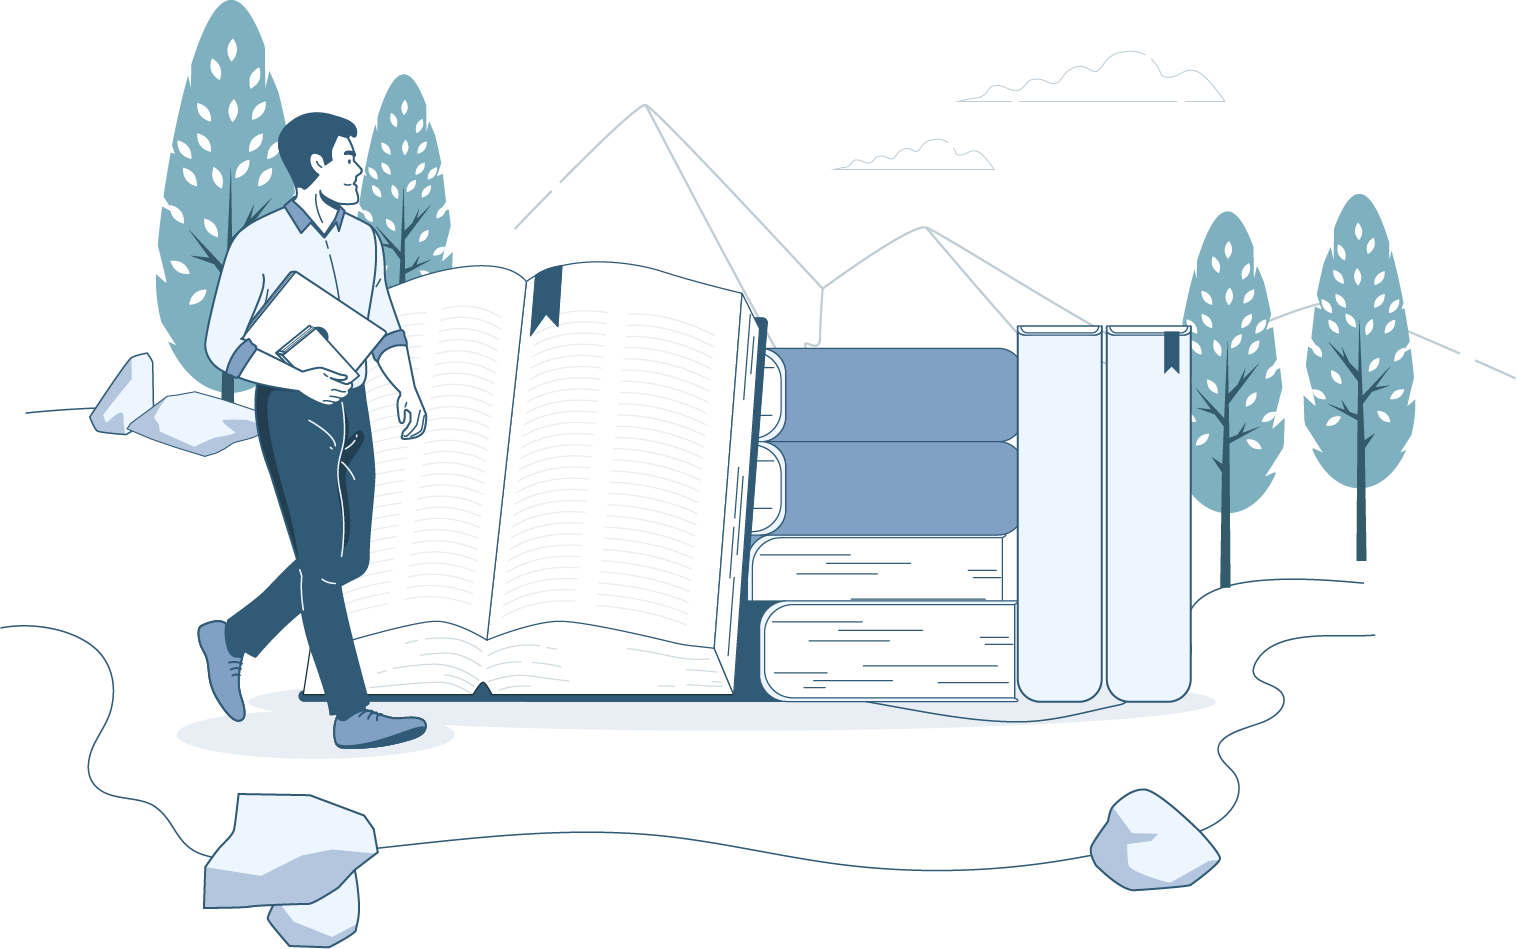
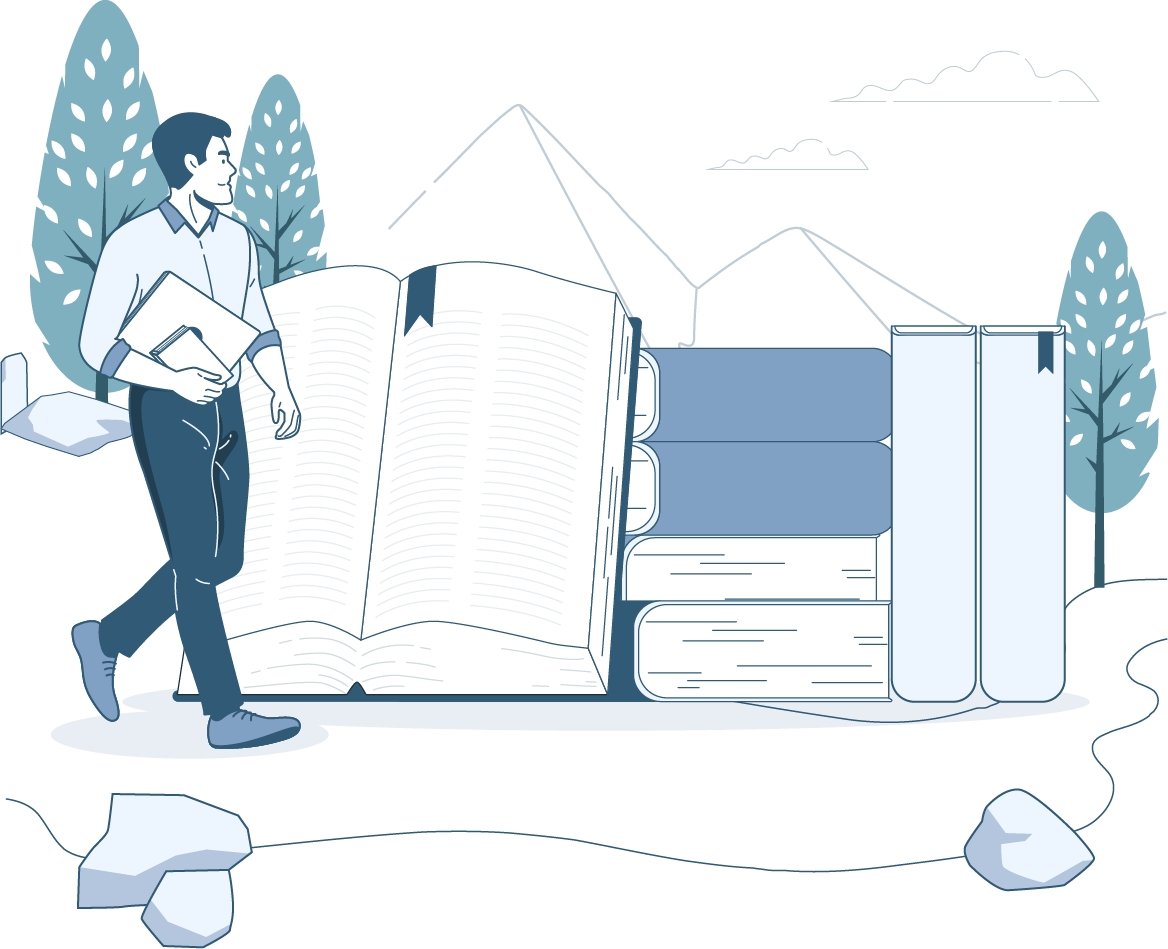
更新手機版圖片

diff --git a/styles/header.css b/styles/header.css
@@ -13,7 +13,7 @@
   position: relative;
   width: 100vw;
   justify-content: center;
-  padding: 15vw 0 65vw;
+  padding: 13vw 0 80vw;
   margin-bottom: 5rem;
   background: url("../images/phone/Header_people_1.png") bottom center no-repeat;
   background-size: contain;
@@ -29,7 +29,7 @@
   background-size: contain;
 }
 .header__phone__text {
-  width: 80%;
+  width: 70%;
 }
 .header__img {
   display: block;
